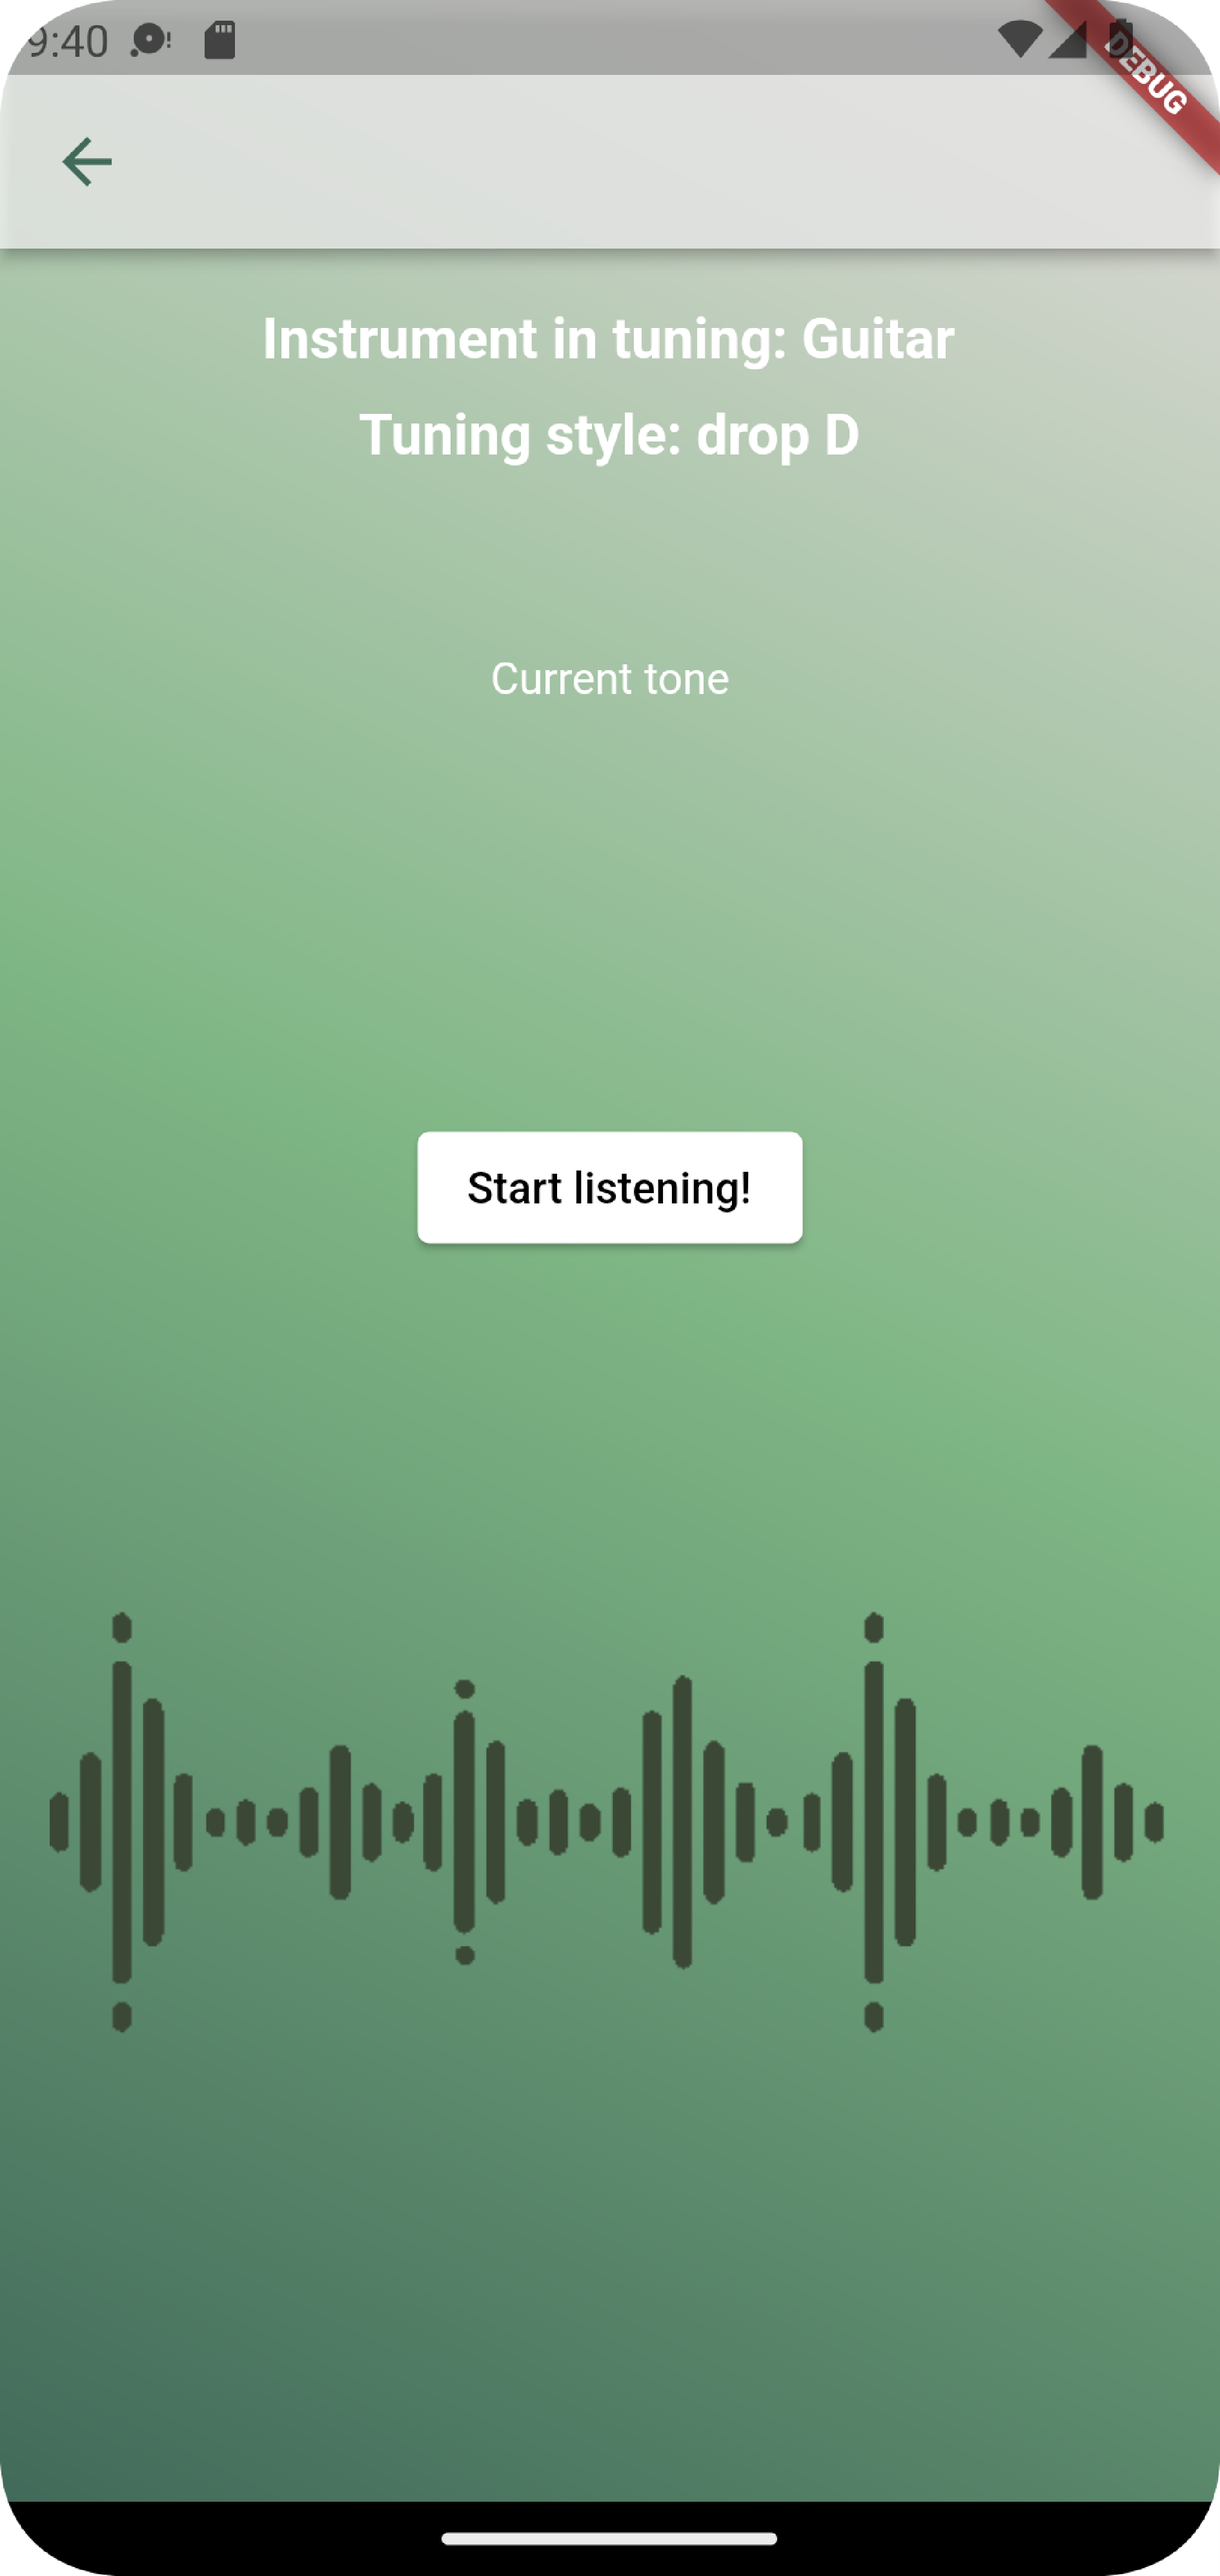
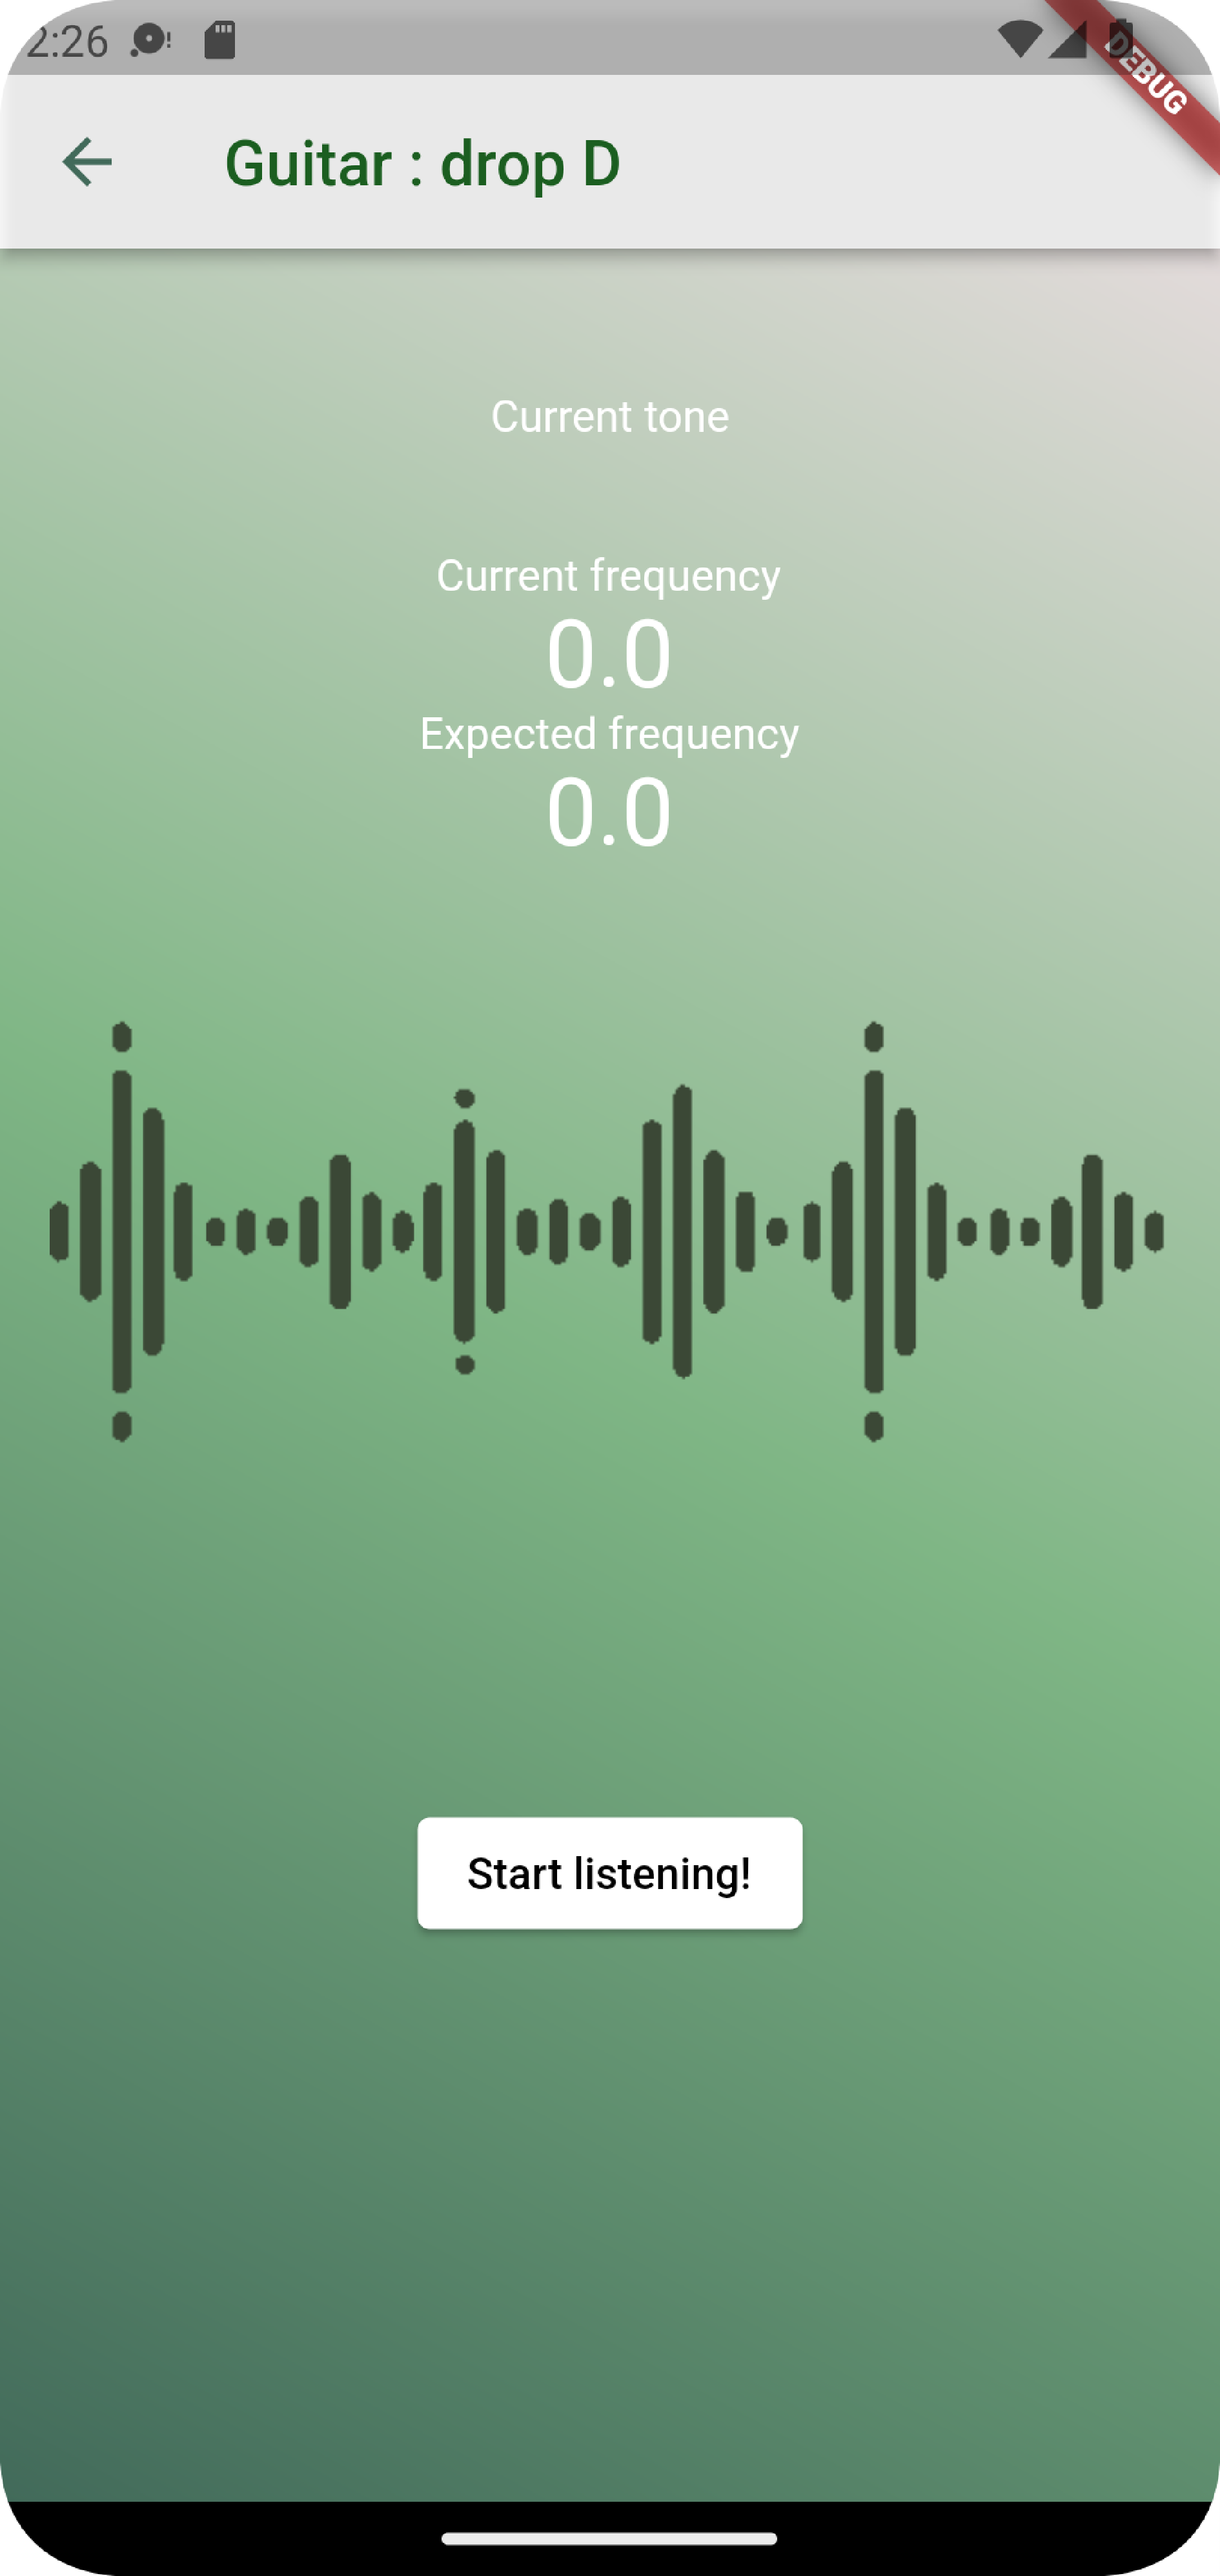
Safe working version with stop/start button

diff --git a/guitar_tuner/lib/tuning.dart b/guitar_tuner/lib/tuning.dart
@@ -23,15 +23,28 @@ class _TuningPageState extends State<TuningPage> {
   final pitchupDart = PitchHandler(InstrumentType.guitar);
 
   var note = "";
+  var wantednote = 0.0;
+  var current_freq = 0.0;
   var status = "";
   var current_note = "";
   var listeningStatus = "Not listening";
+  var curr_status = "";
   bool isListening = false;
+  bool dropD = false;
 
   @override
   void initState() {
     super.initState();
+    checkTuning();
     getMicPermission();
+  }
+
+  checkTuning() {
+    if (widget.tuning == "drop D") {
+      setState(() {
+        dropD = true;
+      });
+    }
   }
 
   getMicPermission() async {
@@ -59,10 +72,86 @@ class _TuningPageState extends State<TuningPage> {
     final pitch = pitchDetectorDart.getPitch(audioSample);
     if (pitch.pitched) {
       final handledPitchresult = pitchupDart.handlePitch(pitch.pitch);
+      if (handledPitchresult.tuningStatus.toString() == "TuningStatus.tuned") {
+        curr_status = "Tuned! Next string!";
+      } else if (handledPitchresult.tuningStatus.toString() ==
+              "TuningStatus.toolow" ||
+          handledPitchresult.tuningStatus.toString() ==
+              "TuningStatus.waytoolow") {
+        curr_status = "Too low! Tune up!";
+      } else if (handledPitchresult.tuningStatus.toString() ==
+              "TuningStatus.toohigh" ||
+          handledPitchresult.tuningStatus.toString() ==
+              "TuningStatus.waytoohigh") {
+        curr_status = "Too high! Tune down!";
+      } else if (handledPitchresult.tuningStatus.toString() ==
+          "TuningStatus.undefined") {
+        curr_status = "The pitch is not close to any expected guitar note!";
+      }
       setState(() {
         note = handledPitchresult.note;
-        status = handledPitchresult.tuningStatus.toString();
+        status = curr_status;
+        wantednote = handledPitchresult.expectedFrequency;
+        current_freq = wantednote + handledPitchresult.diffFrequency;
       });
+    }
+  }
+
+  Row rowOfNotes() {
+    if (!dropD) {
+      return Row(
+        mainAxisAlignment: MainAxisAlignment.center,
+        children: [
+          Text("E", style: TextStyle(color: Colors.white)),
+          SizedBox(
+            width: 30,
+          ),
+          Text("A", style: TextStyle(color: Colors.white)),
+          SizedBox(
+            width: 30,
+          ),
+          Text("D", style: TextStyle(color: Colors.white)),
+          SizedBox(
+            width: 30,
+          ),
+          Text("G", style: TextStyle(color: Colors.white)),
+          SizedBox(
+            width: 30,
+          ),
+          Text("B", style: TextStyle(color: Colors.white)),
+          SizedBox(
+            width: 30,
+          ),
+          Text("E", style: TextStyle(color: Colors.white))
+        ],
+      );
+    } else {
+      return Row(
+        mainAxisAlignment: MainAxisAlignment.center,
+        children: [
+          Text("D", style: TextStyle(color: Colors.white)),
+          SizedBox(
+            width: 30,
+          ),
+          Text("A", style: TextStyle(color: Colors.white)),
+          SizedBox(
+            width: 30,
+          ),
+          Text("D", style: TextStyle(color: Colors.white)),
+          SizedBox(
+            width: 30,
+          ),
+          Text("G", style: TextStyle(color: Colors.white)),
+          SizedBox(
+            width: 30,
+          ),
+          Text("H", style: TextStyle(color: Colors.white)),
+          SizedBox(
+            width: 30,
+          ),
+          Text("E", style: TextStyle(color: Colors.white))
+        ],
+      );
     }
   }
 
@@ -80,7 +169,7 @@ class _TuningPageState extends State<TuningPage> {
         sampleRate: 44100, bufferSize: 3000);
     setState(() {
       note = "";
-      status = "Pluck a string!";
+      status = "";
     });
   }
 
@@ -94,6 +183,8 @@ class _TuningPageState extends State<TuningPage> {
     setState(() {
       note = "";
       status = "";
+      current_freq = 0.0;
+      wantednote = 0.0;
     });
 
     // save the audio, obdelaj
@@ -110,8 +201,12 @@ class _TuningPageState extends State<TuningPage> {
     var show_instrument = widget.instrument;
     var show_tuning = widget.tuning;
     return Scaffold(
-        extendBodyBehindAppBar: true,
+        extendBodyBehindAppBar: false,
         appBar: AppBar(
+          title: Text(
+            "$show_instrument : $show_tuning",
+            style: TextStyle(color: Colors.green[900]),
+          ),
           leading: Builder(
             builder: (BuildContext context) {
               return IconButton(
@@ -138,59 +233,81 @@ class _TuningPageState extends State<TuningPage> {
           child: Padding(
             padding: const EdgeInsets.all(16.0),
             child: Column(
-              mainAxisAlignment: MainAxisAlignment.center,
-              crossAxisAlignment: CrossAxisAlignment.center,
+              mainAxisSize: MainAxisSize.min,
               children: [
+                Row(
+                  mainAxisAlignment: MainAxisAlignment.center,
+                  children: [
+                    Text("6th", style: TextStyle(color: Colors.white)),
+                    SizedBox(
+                      width: 15,
+                    ),
+                    Text("5th", style: TextStyle(color: Colors.white)),
+                    SizedBox(
+                      width: 15,
+                    ),
+                    Text("4th", style: TextStyle(color: Colors.white)),
+                    SizedBox(
+                      width: 15,
+                    ),
+                    Text("3rd", style: TextStyle(color: Colors.white)),
+                    SizedBox(
+                      width: 15,
+                    ),
+                    Text("2nd", style: TextStyle(color: Colors.white)),
+                    SizedBox(
+                      width: 15,
+                    ),
+                    Text("1st", style: TextStyle(color: Colors.white)),
+                  ],
+                ),
                 SizedBox(
-                  height: 60,
+                  height: 10,
                 ),
-                Text(
-                  "Instrument in tuning: $show_instrument", //widget.instrument,
-                  style: TextStyle(
-                      fontSize: 18,
-                      fontWeight: FontWeight.bold,
-                      color: Colors.white), // Set text color to white
-                ),
-                SizedBox(height: 10),
-                Text(
-                  "Tuning style: $show_tuning", //widget.tuning,
-                  style: TextStyle(
-                      fontSize: 18,
-                      fontWeight: FontWeight.bold,
-                      color: Colors.white), // Set text color to white
-                ),
-
-                SizedBox(
-                  height: 60,
-                ),
+                rowOfNotes(),
+                SizedBox(height: 30),
                 Text(
                   "Current tone",
                   style: TextStyle(color: Colors.white),
-                ),
-                SizedBox(
-                  height: 15,
                 ),
                 Text(
                   note,
                   style: TextStyle(color: Colors.white, fontSize: 30),
                 ),
-                SizedBox(
-                  height: 5,
+                Text(
+                  "Current frequency",
+                  style: TextStyle(color: Colors.white),
+                ),
+                Text(
+                  current_freq
+                      .toString()
+                      .substring(0, current_freq.toString().indexOf('.') + 2),
+                  style: TextStyle(color: Colors.white, fontSize: 30),
+                ),
+                Text(
+                  "Expected frequency",
+                  style: TextStyle(color: Colors.white),
+                ),
+                Text(
+                  wantednote.toString(),
+                  style: TextStyle(color: Colors.white, fontSize: 30),
                 ),
                 Text(
                   current_note,
                   style: TextStyle(color: Colors.white),
                 ),
+                isListening
+                    ? Image.asset('lib/utils/wave.gif')
+                    : Image.asset('lib/utils/still.png'),
                 SizedBox(
-                  height: 30,
-                ),
-                //add gif for listening
-                SizedBox(
-                  height: 40,
+                  height: 25,
                 ),
                 Text(
                   status,
                   style: TextStyle(color: Colors.white),
+                ),
+                SizedBox(
+                  height: 40,
                 ),
                 ElevatedButton(
                   onPressed: isListening ? stopListening : startListening,
@@ -200,9 +317,6 @@ class _TuningPageState extends State<TuningPage> {
                   style: const ButtonStyle(
                       backgroundColor: MaterialStatePropertyAll(Colors.white)),
                 ),
-                isListening
-                    ? Image.asset('lib/utils/wave.gif')
-                    : Image.asset('lib/utils/still.png')
               ],
             ),
           ),

diff --git a/guitar_tuner/lib/home.dart b/guitar_tuner/lib/home.dart
@@ -10,8 +10,8 @@ class MyHomePage extends StatefulWidget {
 }
 
 class _MyHomePageState extends State<MyHomePage> {
-  String? selectedInstrument = null;
-  String? selectedNote = null;
+  String? selectedInstrument = "Guitar";
+  String? selectedNote = "EADGBE";
   bool isButtonEnabled = false;
 
   @override
@@ -57,6 +57,7 @@ class _MyHomePageState extends State<MyHomePage> {
                     const SizedBox(height: 20),
                     // first dropdown
                     DropdownButton(
+                      value: selectedInstrument,
                       dropdownColor: Styles.deepgreen,
                       items: [
                         DropdownMenuItem(
@@ -67,25 +68,28 @@ class _MyHomePageState extends State<MyHomePage> {
                           )),
                           value: "Guitar",
                         ),
-                        DropdownMenuItem(
-                          child: Center(
-                              child: Text(
-                            "Ukulele",
-                            style: TextStyle(color: Colors.white),
-                          )),
-                          value: "Ukulele",
-                        ),
-                        DropdownMenuItem(
-                          child: Center(
-                              child: Text(
-                            "Violin",
-                            style: TextStyle(color: Colors.white),
-                          )),
-                          value: "Violin",
-                        )
+                        // DropdownMenuItem(
+                        //   child: Center(
+                        //       child: Text(
+                        //     "Ukulele",
+                        //     style: TextStyle(color: Colors.white),
+                        //   )),
+                        //   value: "Ukulele",
+                        // ),
+                        // DropdownMenuItem(
+                        //   child: Center(
+                        //       child: Text(
+                        //     "Violin",
+                        //     style: TextStyle(color: Colors.white),
+                        //   )),
+                        //   value: "Violin",
+                        // )
                       ],
-                      value: selectedInstrument,
-                      onChanged: dropdownInstrumentCallback,
+                      onChanged: (String? newValue) {
+                        setState(() {
+                          selectedInstrument = newValue!;
+                        });
+                      },
                       iconEnabledColor: Styles.deepgreen,
                       isExpanded: true,
                     ),
@@ -104,8 +108,19 @@ class _MyHomePageState extends State<MyHomePage> {
 
                     DropdownButton(
                       dropdownColor: Styles.deepgreen,
-                      items: buildNoteDropdownItems(selectedInstrument),
                       value: selectedNote,
+                      items: [
+                        DropdownMenuItem(
+                            value: "EADGBE",
+                            child: Center(
+                                child: Text("EADGBE",
+                                    style: TextStyle(color: Colors.white)))),
+                        DropdownMenuItem(
+                            value: "drop D",
+                            child: Center(
+                                child: Text("drop D",
+                                    style: TextStyle(color: Colors.white)))),
+                      ],
                       onChanged: dropdownTuningCallback,
                       iconEnabledColor: Styles.deepgreen,
                       isExpanded: true,
@@ -151,9 +166,9 @@ class _MyHomePageState extends State<MyHomePage> {
     if (selectedInstrument == "Guitar") {
       return [
         DropdownMenuItem(
-            value: "EADGHE",
+            value: "EADGBE",
             child: Center(
-                child: Text("EADGHE", style: TextStyle(color: Colors.white)))),
+                child: Text("EADGBE", style: TextStyle(color: Colors.white)))),
         DropdownMenuItem(
             value: "drop D",
             child: Center(

diff --git a/guitar_tuner/lib/main.dart b/guitar_tuner/lib/main.dart
@@ -26,7 +26,7 @@ class MyApp extends StatelessWidget {
         // is not restarted.
         primarySwatch: Colors.grey,
       ),
-      home: const TuningPage(instrument: "Guitar", tuning: "drop D"),
+      home: MyHomePage(),
     );
   }
 }
